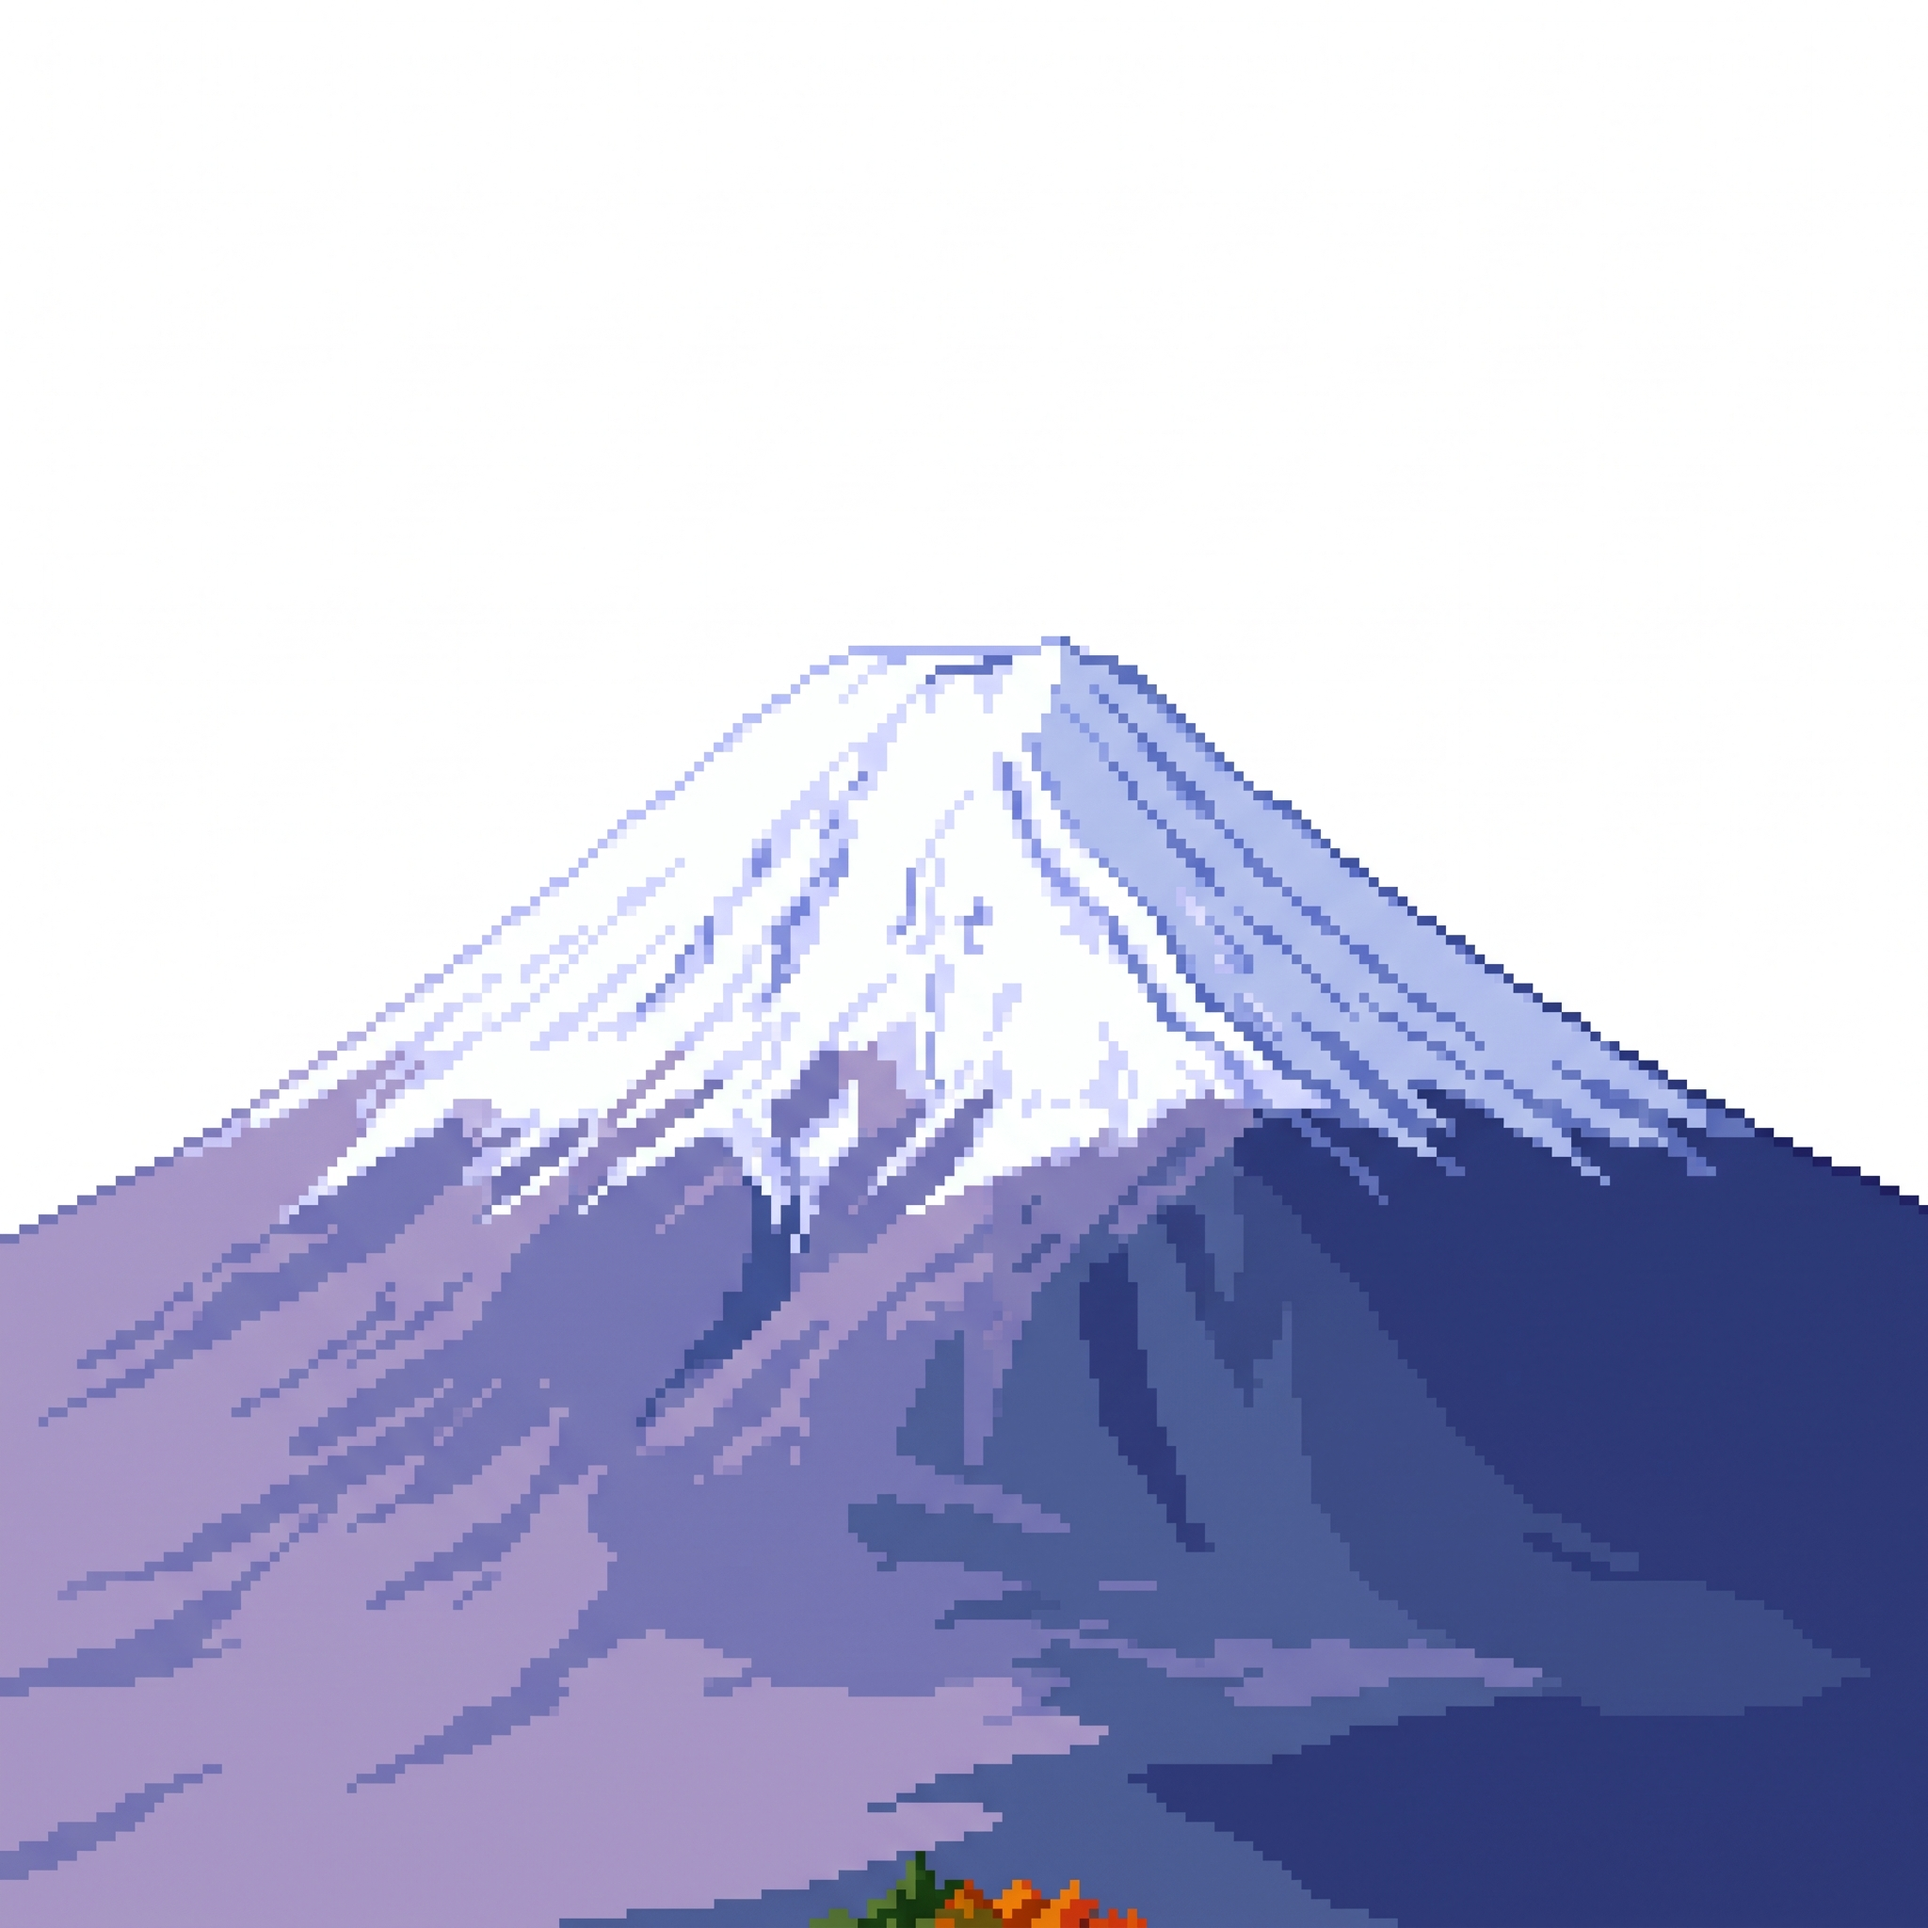
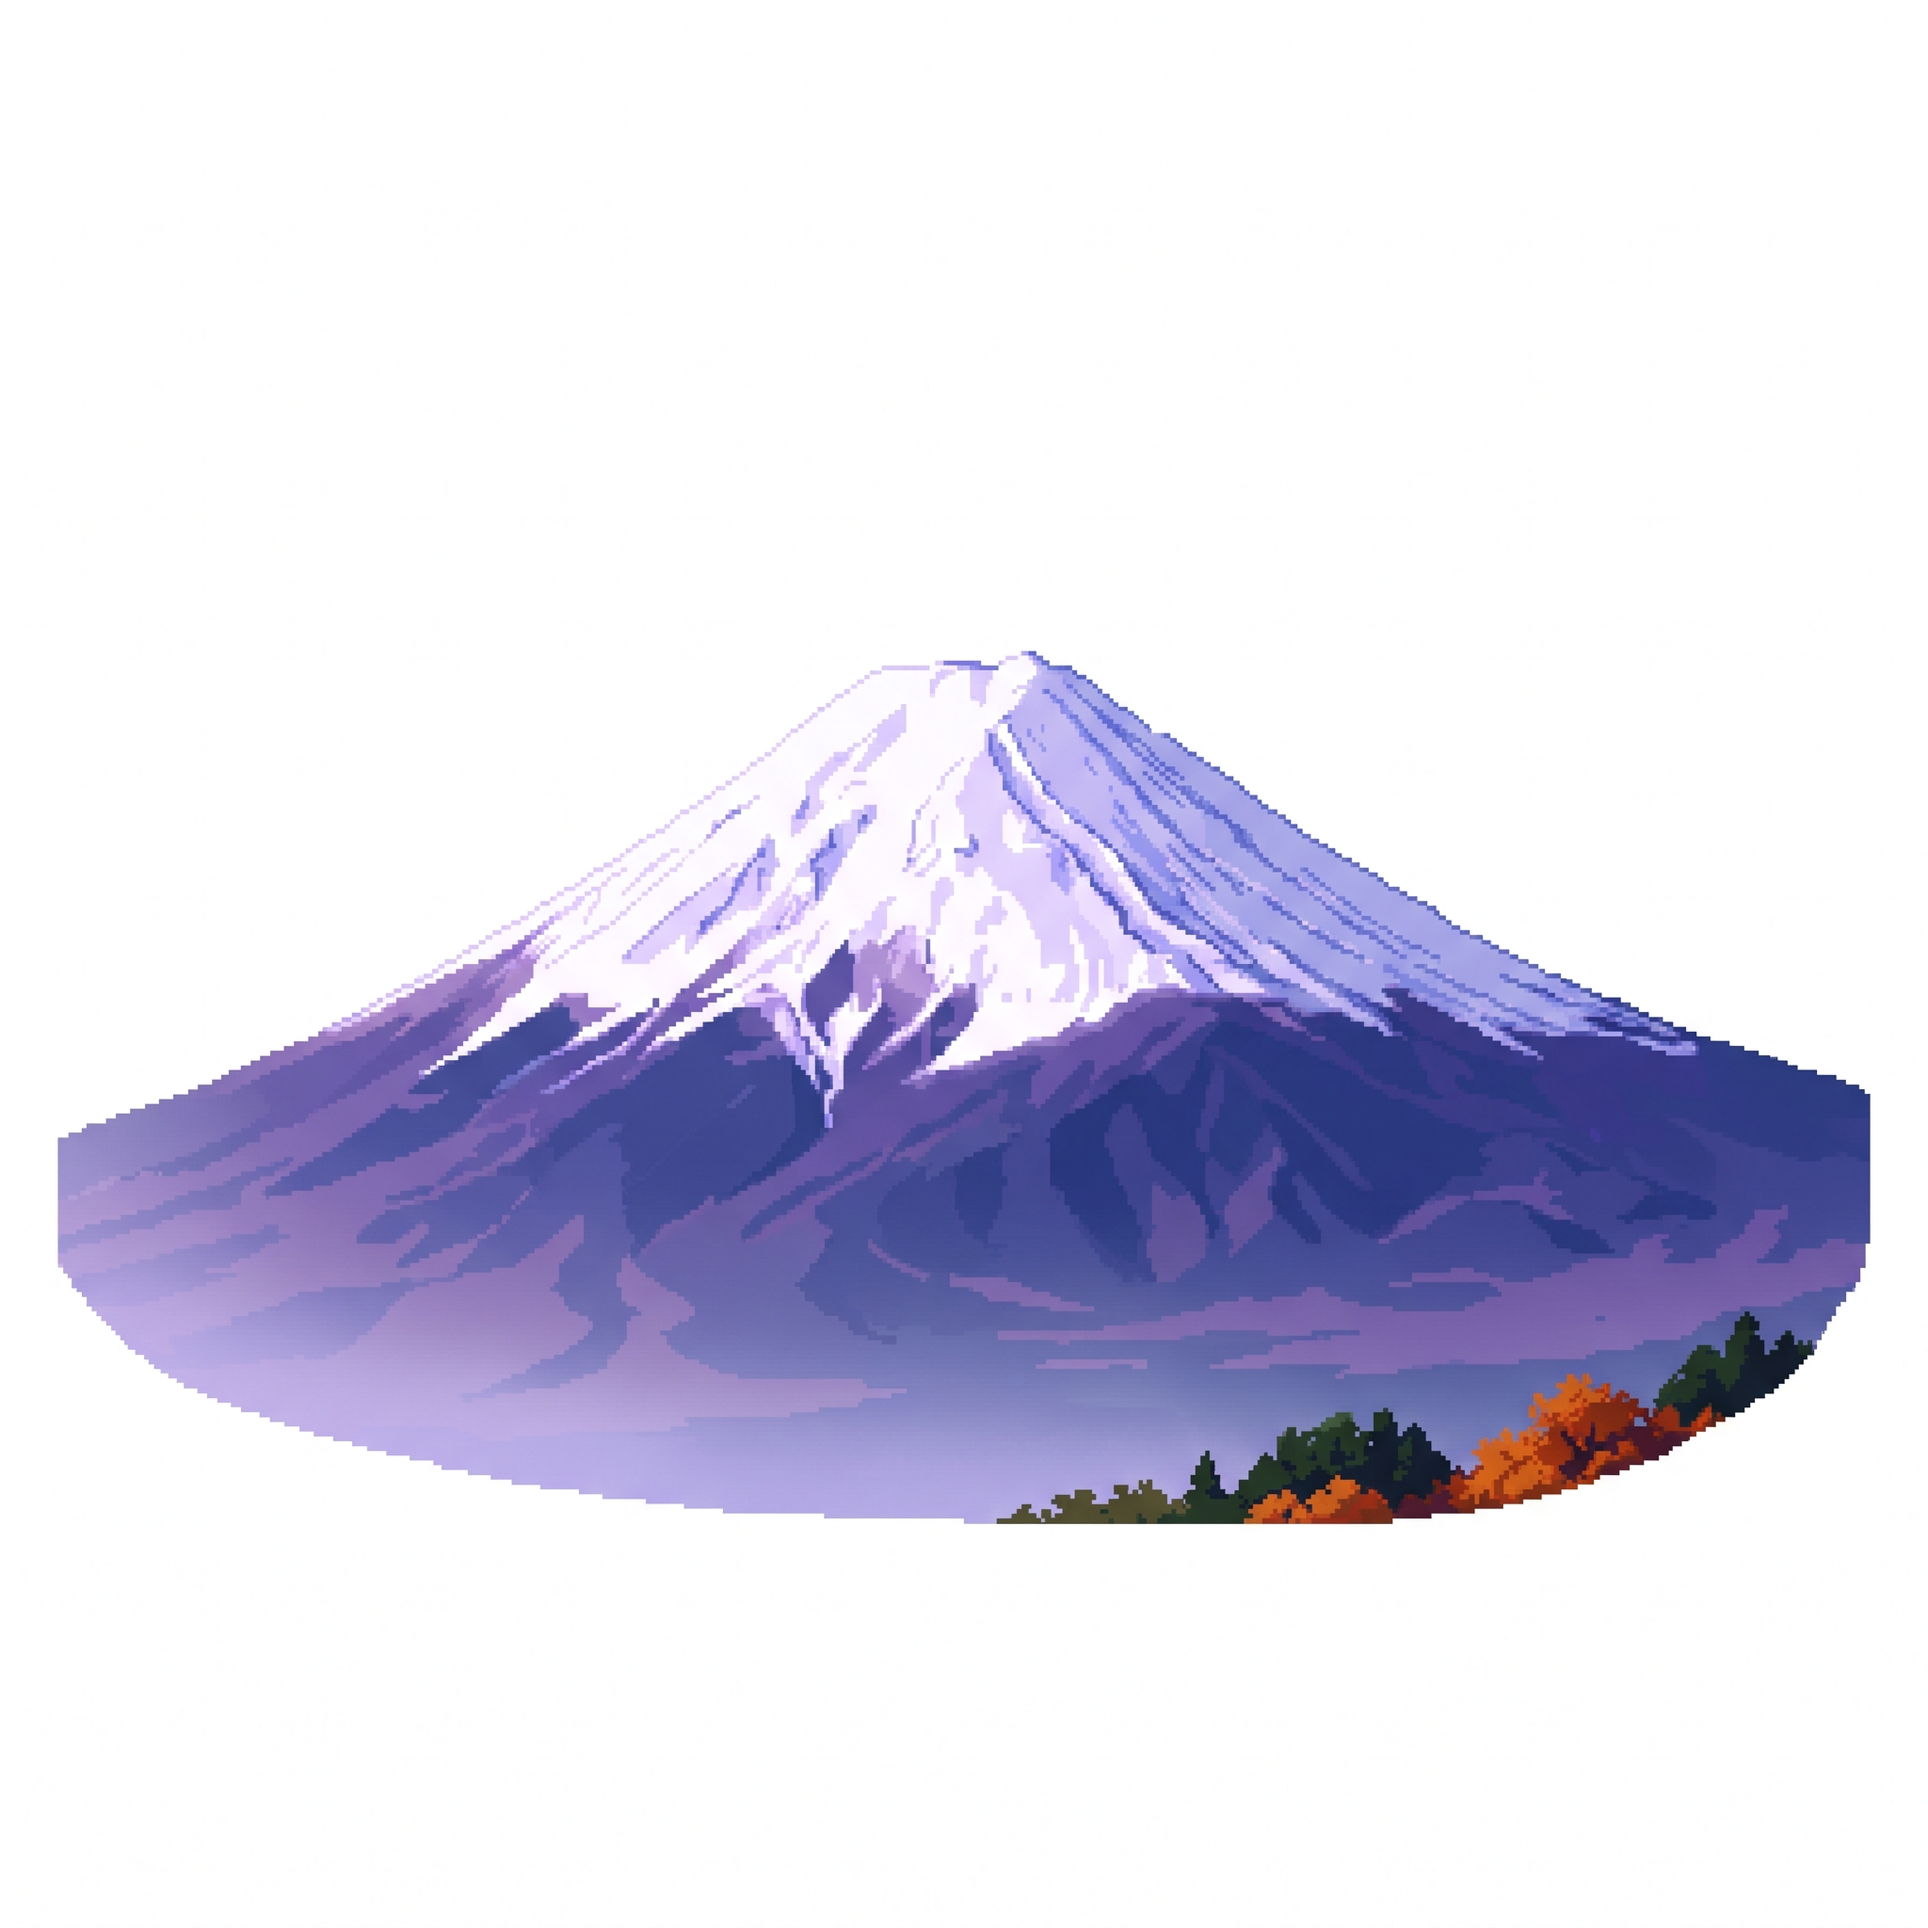
feat(scenic): integrate new perfectly-framed Mount Fuji with smooth tapered slopes

diff --git a/src/components/ScenicJourneyModal.tsx b/src/components/ScenicJourneyModal.tsx
@@ -611,12 +611,13 @@ export const ScenicJourneyModal: React.FC<ScenicJourneyModalProps> = ({
         const fujiBaseY = height * 0.68;
 
         if (assets.bgFuji) {
-          // Dedicated high-res pixel art Mount Fuji
-          // Positioned deeper in the background so its sides are tucked naturally behind mountains
-          const fujiDrawW = 380;
-          const fujiDrawH = 380;
+          // Dedicated high-res pixel art Mount Fuji (Centered and tapered slopes)
+          // Bounds: minY=172 (peak), maxY=405 (base), total height 233 in 512px space
+          const fujiDrawW = 420;
+          const fujiDrawH = 420;
           const fujiDrawX = fujiX - fujiDrawW / 2;
-          const fujiDrawY = fujiBaseY - fujiDrawH + 75; // Lowered so side cutoffs are hidden below mountain ridges
+          // Base at maxY=405/512 rests grounded comfortably behind rolling hills
+          const fujiDrawY = fujiBaseY - fujiDrawH * (405 / 512) + 20;
 
           ctx.save();
           if (theme === 'night') {
